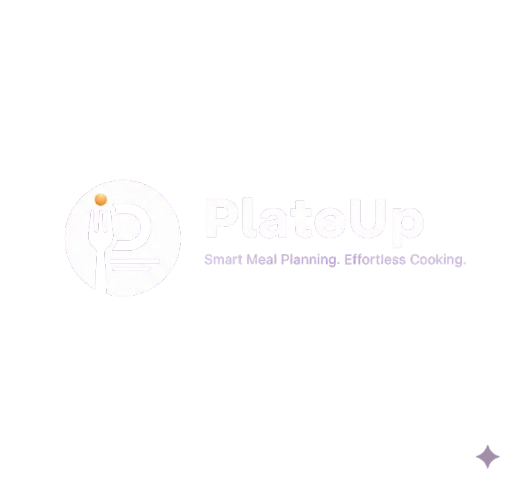
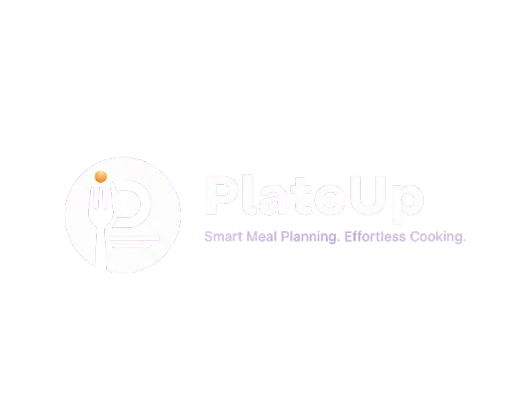
feat: Update splash screen image and resize mode in configuration and add brand image asset.

Changed region(s): [[0.3728, 0.5262, 0.901, 0.5881], [0.1553, 0.4024, 0.2175, 0.4643], [0.932, 0.9286, 0.9631, 0.9595]]

diff --git a/app.config.js b/app.config.js
@@ -16,8 +16,8 @@ export default {
       policy: "appVersion"
     },
     splash: {
-      image: "./assets/images/splash.png",
-      resizeMode: "cover",
+      image: "./assets/images/adaptive-icon.png",
+      resizeMode: "contain",
       backgroundColor: "#302783"
     },
     ios: {
@@ -34,7 +34,7 @@ export default {
     },
     plugins: [
       "expo-router",
-      ["expo-splash-screen", { "backgroundColor": "#302783", "image": "./assets/images/splash.png", "resizeMode": "cover" }],
+      ["expo-splash-screen", { "backgroundColor": "#302783", "image": "./assets/images/adaptive-icon.png", "resizeMode": "contain" }],
       ["expo-image-picker", { "photosPermission": "The app needs access to your photos..." }]
     ],
     extra: {
